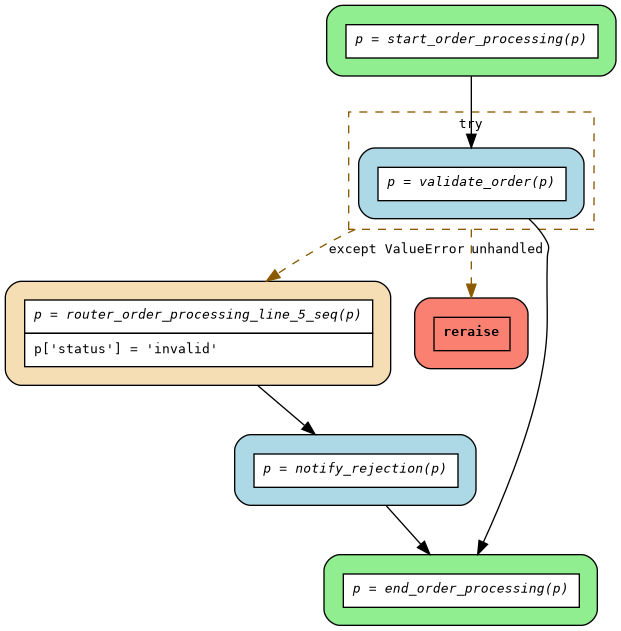
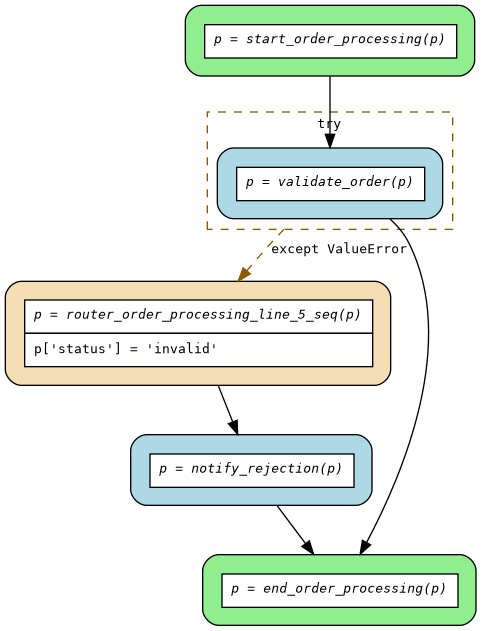
feat(flow): remove reraise from DOT, add retry loop example
Remove the reraise node from DOT visualization since it's implicit
for all actors (via sidecar error-end routing), not just try-except.
This avoids confusion as reraise was shown disconnected from exitpoint.

Add try_except_retry_loop example demonstrating while loop with
try-except: retries on ConnectionError, re-raises on ValueError.
Adds _find_post_try_actor() to dotgen for correct edge connectivity
when try-except is nested inside while loops.

diff --git a/examples/flows/compiled/try_except_retry_loop/routers.py b/examples/flows/compiled/try_except_retry_loop/routers.py
@@ -1,0 +1,225 @@
+# fmt: off
+# ruff: noqa
+"""
+Auto-generated by asya flow compiler
+Source: ../../try_except_retry_loop.py
+
+DO NOT EDIT THIS FILE MANUALLY
+Regenerate by running: asya flow compile ../../try_except_retry_loop.py
+"""
+
+
+# ======================================================================
+# Generated Routers (for kubernetes deployment)
+# ======================================================================
+
+def start_retry_pipeline(message: dict) -> dict:
+    """Entrypoint for flow 'retry_pipeline'"""
+    r = message['route']
+    c = r['current']
+
+    r['actors'][c+1:c+1] = [resolve("router_retry_pipeline_line_10_seq")]
+    r['current'] = c + 1
+    return message
+
+def router_retry_pipeline_line_14_try_enter_0(message: dict) -> dict:
+    """Try-enter router: sets _on_error header and inserts try body"""
+    r = message['route']
+    c = r['current']
+    _next = []
+
+    message.setdefault('headers', {})
+    message['headers']['_on_error'] = resolve("router_retry_pipeline_line_14_except_dispatch_0")
+
+    _next.append(resolve("call_external_api"))
+    _next.append(resolve("router_retry_pipeline_line_14_try_exit_0"))
+
+    r['actors'][c+1:c+1] = _next
+    r['current'] = c + 1
+    return message
+
+def router_retry_pipeline_line_14_try_exit_0(message: dict) -> dict:
+    """Try-exit router: clears _on_error header (success path)"""
+    r = message['route']
+    c = r['current']
+    _next = []
+
+    message.get('headers', {}).pop('_on_error', None)
+
+
+    r['actors'][c+1:c+1] = _next
+    r['current'] = c + 1
+    return message
+
+def router_retry_pipeline_line_14_except_dispatch_0(message: dict) -> dict:
+    """Except-dispatch router: matches error type and routes to handler"""
+    p = message['payload']
+    r = message['route']
+    c = r['current']
+    _next = []
+
+    _error = message.get('status', {}).get('error', {})
+    _error_type = _error.get('type', '')
+    _error_mro = _error.get('mro', [])
+    _all_types = [_error_type] + _error_mro
+
+    if "ConnectionError" in _all_types:
+        message.get('status', {}).pop('error', None)
+        _next.append(resolve("log_retry"))
+    elif "ValueError" in _all_types:
+        message.get('status', {}).pop('error', None)
+        pass
+    else:
+        _next.append(resolve("router_retry_pipeline_line_14_reraise_0"))
+
+    r['actors'][c+1:c+1] = _next
+    r['current'] = c + 1
+    return message
+
+def router_retry_pipeline_line_14_reraise_0(message: dict) -> dict:
+    """Reraise router: raises RuntimeError for unhandled exceptions"""
+    _error = message.get('status', {}).get('error', {})
+    _error_type = _error.get('type', 'unknown')
+    _error_msg = _error.get('message', 'unknown error')
+    raise RuntimeError(f"Unhandled exception {_error_type}: {_error_msg}")
+
+def router_retry_pipeline_line_13_seq(message: dict) -> dict:
+    """Router for control flow and payload mutations"""
+    p = message['payload']
+    r = message['route']
+    c = r['current']
+    _next = []
+
+    p['attempt'] += 1
+    _next.append(resolve("router_retry_pipeline_line_14_try_enter_0"))
+
+    r['actors'][c+1:c+1] = _next
+    r['current'] = c + 1
+    return message
+
+def router_retry_pipeline_line_12_loop_back_0(message: dict) -> dict:
+    """Loop-back router: re-inserts loop actors into route"""
+    p = message['payload']
+    r = message['route']
+    c = r['current']
+    _next = []
+
+    _next.append(resolve("router_retry_pipeline_line_12_while_0"))
+
+    r['actors'][c+1:c+1] = _next
+    r['current'] = c + 1
+    return message
+
+def router_retry_pipeline_line_12_while_0(message: dict) -> dict:
+    """Router for control flow and payload mutations"""
+    p = message['payload']
+    r = message['route']
+    c = r['current']
+    _next = []
+
+    if p['attempt'] < 3:
+        _next.append(resolve("router_retry_pipeline_line_13_seq"))
+        _next.append(resolve("router_retry_pipeline_line_12_loop_back_0"))
+    else:
+        _next.append(resolve("notify_complete"))
+
+    r['actors'][c+1:c+1] = _next
+    r['current'] = c + 1
+    return message
+
+def router_retry_pipeline_line_10_seq(message: dict) -> dict:
+    """Router for control flow and payload mutations"""
+    p = message['payload']
+    r = message['route']
+    c = r['current']
+    _next = []
+
+    p['attempt'] = 0
+    _next.append(resolve("prepare_request"))
+    _next.append(resolve("router_retry_pipeline_line_12_while_0"))
+
+    r['actors'][c+1:c+1] = _next
+    r['current'] = c + 1
+    return message
+
+def end_retry_pipeline(message: dict) -> dict:
+    """Exitpoint for flow 'retry_pipeline'"""
+    return message
+
+
+# ======================================================================
+# Handler Resolution
+# ======================================================================
+
+import os
+import logging
+
+_HANDLER_TO_ACTOR: dict[str, str] = {}
+_SUFFIX_TO_HANDLERS: dict[str, list[str]] = {}
+
+for _env_var, _handler_name in os.environ.items():
+    if _env_var.startswith('ASYA_HANDLER_'):
+        _actor_name = _env_var[len('ASYA_HANDLER_'):].lower().replace('_', '-')
+        _HANDLER_TO_ACTOR[_handler_name] = _actor_name
+
+        # Index all suffixes (e.g., "a.b.c" -> ["c", "b.c", "a.b.c"])
+        _parts = _handler_name.split('.')
+        for _i in range(len(_parts)):
+            _suffix = '.'.join(_parts[_i:])
+            if _suffix not in _SUFFIX_TO_HANDLERS:
+                _SUFFIX_TO_HANDLERS[_suffix] = []
+            _SUFFIX_TO_HANDLERS[_suffix].append(_handler_name)
+
+logging.info(f"Loaded {len(_HANDLER_TO_ACTOR)} handler-to-actor mappings")
+
+
+def resolve(handler_full_name: str) -> str:
+    """
+    Resolve handler name to actor name using suffix-based matching.
+
+    Looks up handler in environment variables:
+    - ASYA_HANDLER_<ACTOR_NAME>="full.module.path.ClassName.method"
+
+    Supports flexible suffix matching - any suffix of the full path can be used if unambiguous:
+    - "method" (shortest)
+    - "ClassName.method" (class + method)
+    - "module.ClassName.method" (partial path)
+    - "full.module.path.ClassName.method" (full path)
+
+    Args:
+        handler_full_name: Any suffix of the full handler path
+
+    Returns:
+        Actor name for routing (kebab-case, lowercase)
+
+    Raises:
+        ValueError: If handler suffix not found or is ambiguous
+
+    Examples:
+        # Environment: ASYA_HANDLER_MY_ACTOR="class_instantiation.DataPreprocessor.clean"
+
+        # All of these work (if unambiguous):
+        resolve("clean")  # shortest suffix
+        resolve("DataPreprocessor.clean")  # class + method
+        resolve("class_instantiation.DataPreprocessor.clean")  # full path
+
+        # Ambiguous suffix
+        # Env: ASYA_HANDLER_A="module1.clean", ASYA_HANDLER_B="module2.clean"
+        resolve("clean")  # raises ValueError: ambiguous, use longer suffix
+    """
+    if handler_full_name in _SUFFIX_TO_HANDLERS:
+        candidates = _SUFFIX_TO_HANDLERS[handler_full_name]
+        if len(candidates) == 1:
+            return _HANDLER_TO_ACTOR[candidates[0]]
+        else:
+            raise ValueError(
+                f"Handler suffix '{handler_full_name}' is ambiguous. "
+                f"Found multiple matches: {candidates}. "
+                f"Use a longer suffix to disambiguate."
+            )
+
+    raise ValueError(
+        f"Handler '{handler_full_name}' not found in environment variables. "
+        f'No handler ends with suffix "{handler_full_name}". '
+        f"Available handlers: {list(_HANDLER_TO_ACTOR.keys())}"
+    )

diff --git a/src/asya-cli/asya_cli/flow/dotgen.py b/src/asya-cli/asya_cli/flow/dotgen.py
@@ -93,10 +93,7 @@ class DotGenerator:
                 continue
             if router.name in self._cluster_membership:
                 continue
-            if router.is_reraise:
-                parts.append(self._generate_reraise_node(router))
-            else:
-                parts.append(self._generate_actor_node(router))
+            parts.append(self._generate_actor_node(router))
 
         # Non-cluster user actor nodes
         for actor in sorted(self.user_actors):
@@ -194,11 +191,13 @@ class DotGenerator:
             )
             cluster_id += 1
 
-            # Mark infrastructure routers as hidden (reraise stays visible)
+            # Mark infrastructure routers as hidden
             self._hidden_routers.add(router.name)
             self._hidden_routers.add(try_exit_name)
             if except_dispatch_name:
                 self._hidden_routers.add(except_dispatch_name)
+            if reraise_name:
+                self._hidden_routers.add(reraise_name)
 
             # Redirect map: try_enter → first body actor
             if router.true_branch_actors:
@@ -212,6 +211,11 @@ class DotGenerator:
                 continuation = [*try_exit_router.finally_actors, *try_exit_router.continuation_actors]
                 if continuation:
                     self._redirect_map[try_exit_name] = continuation[0]
+                else:
+                    # Fallback: find the actor after the try block in its parent chain
+                    post_try = self._find_post_try_actor(router.name)
+                    if post_try:
+                        self._redirect_map[try_exit_name] = post_try
 
     def _collect_cluster_actors(self, body_actors: list[str], exclude: set[str]) -> set[str]:
         """Recursively collect all actors inside a try body cluster."""
@@ -231,6 +235,30 @@ class DotGenerator:
                     if a not in result and a not in exclude:
                         to_visit.append(a)
         return result
+
+    def _find_post_try_actor(self, try_enter_name: str) -> str | None:
+        """Find the actor that follows the try block in its parent router's actor list.
+
+        When a try-except is the last operation in a while loop body, the try-except's
+        continuation is empty, but the loop_back router follows in the parent while
+        condition's true_branch_actors. This method traces through wrapper routers
+        (seq routers that contain the try_enter) to find that next actor.
+        """
+        for router in self.routers:
+            for i, actor in enumerate(router.true_branch_actors):
+                # Direct reference to try_enter
+                if actor == try_enter_name and i + 1 < len(router.true_branch_actors):
+                    return router.true_branch_actors[i + 1]
+                # Through a wrapping seq_router (mutations before try create a wrapper)
+                sub_router = self.router_map.get(actor)
+                if (
+                    sub_router
+                    and not sub_router.condition
+                    and try_enter_name in sub_router.true_branch_actors
+                    and i + 1 < len(router.true_branch_actors)
+                ):
+                    return router.true_branch_actors[i + 1]
+        return None
 
     def _resolve(self, name: str) -> str:
         """Resolve an actor name, replacing hidden try infrastructure routers."""
@@ -284,14 +312,6 @@ class DotGenerator:
 
         return f'  {self._node_id(actor_name)} [fillcolor="lightblue", label={label}];'
 
-    def _generate_reraise_node(self, router: Router) -> str:
-        label = (
-            '<<table border="0" cellspacing="0" cellpadding="6" cellborder="1">'
-            '<tr><td bgcolor="salmon"><b>reraise</b></td></tr>'
-            "</table>>"
-        )
-        return f'  {self._node_id(router.name)} [fillcolor="salmon", label={label}];'
-
     def _generate_try_cluster(self, cluster: _TryCluster) -> list[str]:
         """Generate DOT subgraph cluster for a try block."""
         parts = []
@@ -336,6 +356,12 @@ class DotGenerator:
                     *cluster.except_dispatch.continuation_actors,
                 ]
 
+                # Fallback: if handler continuation is empty, use post-try actor
+                if not handler_continuation:
+                    post_try = self._find_post_try_actor(try_enter.name)
+                    if post_try:
+                        handler_continuation = [post_try]
+
                 for handler in cluster.except_dispatch.exception_handlers:
                     if handler.actors:
                         label = self._format_except_label(handler.error_types)
@@ -349,15 +375,11 @@ class DotGenerator:
                         # Connect handler terminals → continuation (finally + post-try)
                         if handler_continuation:
                             for terminal in self._find_chain_terminals(handler.actors):
-                                lines.add(f"  {self._node_id(terminal)} -> {self._node_id(handler_continuation[0])};")
+                                if not terminal.startswith("end_"):
+                                    lines.add(
+                                        f"  {self._node_id(terminal)} -> {self._node_id(handler_continuation[0])};"
+                                    )
                             self._add_sequential_edges(handler_continuation, lines)
-
-                # Reraise edge (unhandled exceptions)
-                if cluster.except_dispatch.reraise_name:
-                    lines.add(
-                        f"  {self._node_id(anchor)} -> {self._node_id(cluster.except_dispatch.reraise_name)}"
-                        f' [ltail={cluster.cluster_name}, color={self._color_error_control_flow}, style=dashed, label="unhandled"];'
-                    )
 
         return lines
 

diff --git a/examples/flows/try_except_retry_loop.py b/examples/flows/try_except_retry_loop.py
@@ -1,0 +1,41 @@
+"""
+Retry loop with try-except.
+
+Retries up to 3 times on ConnectionError, re-raises on ValueError.
+Demonstrates combining while loops with try-except for resilient processing.
+"""
+
+
+def retry_pipeline(p: dict) -> dict:
+    p["attempt"] = 0
+    p = prepare_request(p)
+    while p["attempt"] < 3:
+        p["attempt"] += 1
+        try:
+            p = call_external_api(p)
+        except ConnectionError:
+            p = log_retry(p)
+        except ValueError:
+            raise
+    p = notify_complete(p)
+    return p
+
+
+def prepare_request(p: dict) -> dict:
+    """Validate and prepare the outgoing request."""
+    return p
+
+
+def call_external_api(p: dict) -> dict:
+    """Call an external API that may fail."""
+    return p
+
+
+def log_retry(p: dict) -> dict:
+    """Log the retry attempt."""
+    return p
+
+
+def notify_complete(p: dict) -> dict:
+    """Send completion notification."""
+    return p
